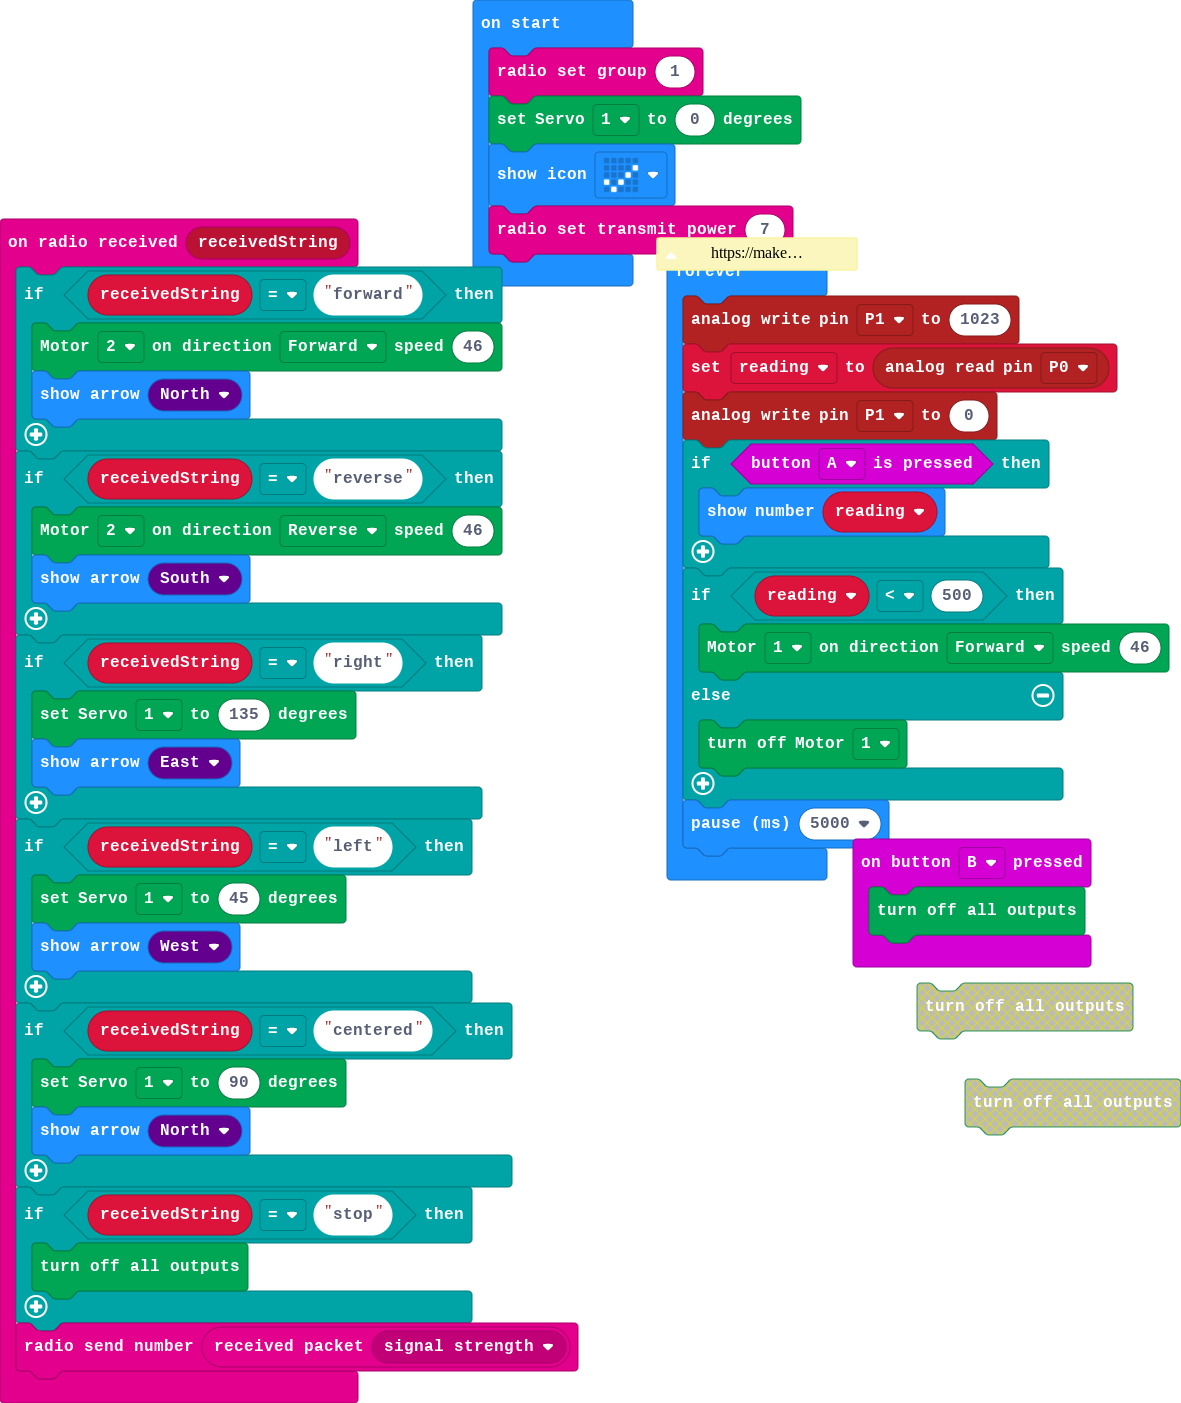
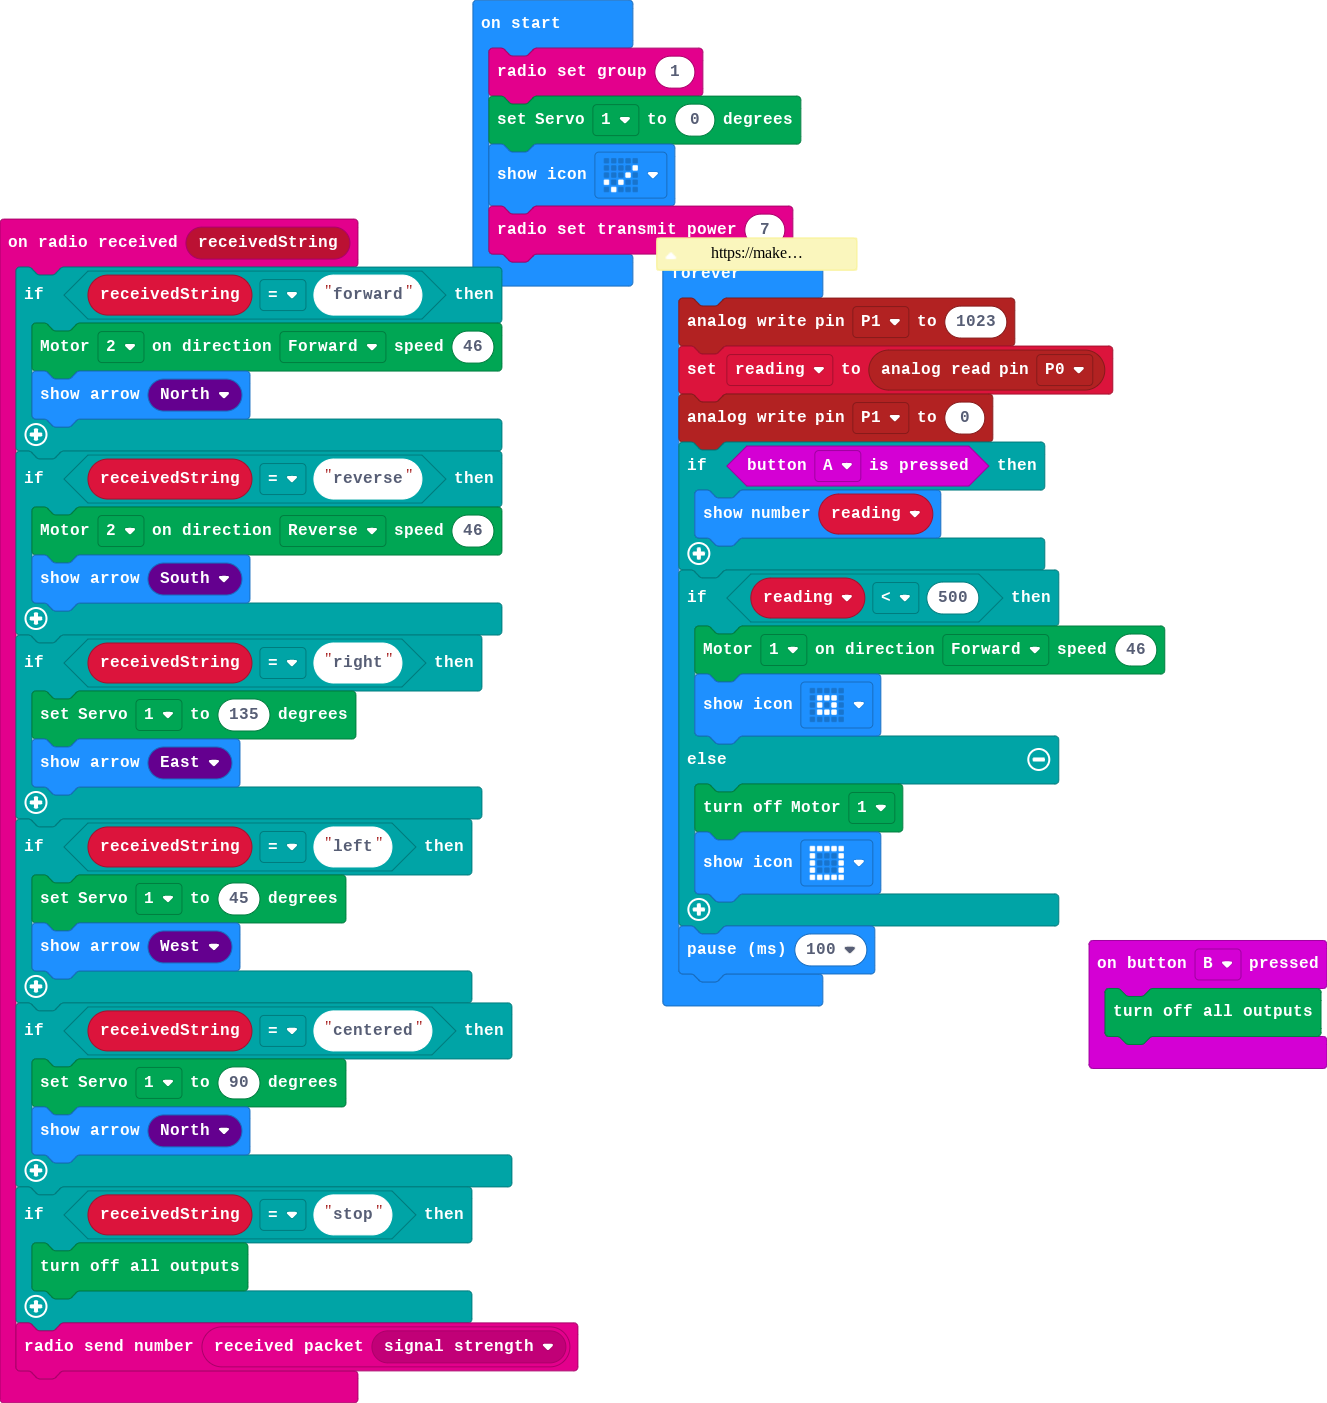
Update main.blocks, main.ts

Changed region(s): [[0.0, 0.0, 1.0, 1.0]]

diff --git a/main.ts b/main.ts
@@ -44,8 +44,10 @@ basic.forever(function () {
     }
     if (reading < 500) {
         Kitronik_Robotics_Board.motorOn(Kitronik_Robotics_Board.Motors.Motor1, Kitronik_Robotics_Board.MotorDirection.Forward, 46)
+        basic.showIcon(IconNames.SmallSquare)
     } else {
         Kitronik_Robotics_Board.motorOff(Kitronik_Robotics_Board.Motors.Motor1)
+        basic.showIcon(IconNames.Square)
     }
-    basic.pause(5000)
+    basic.pause(100)
 })
